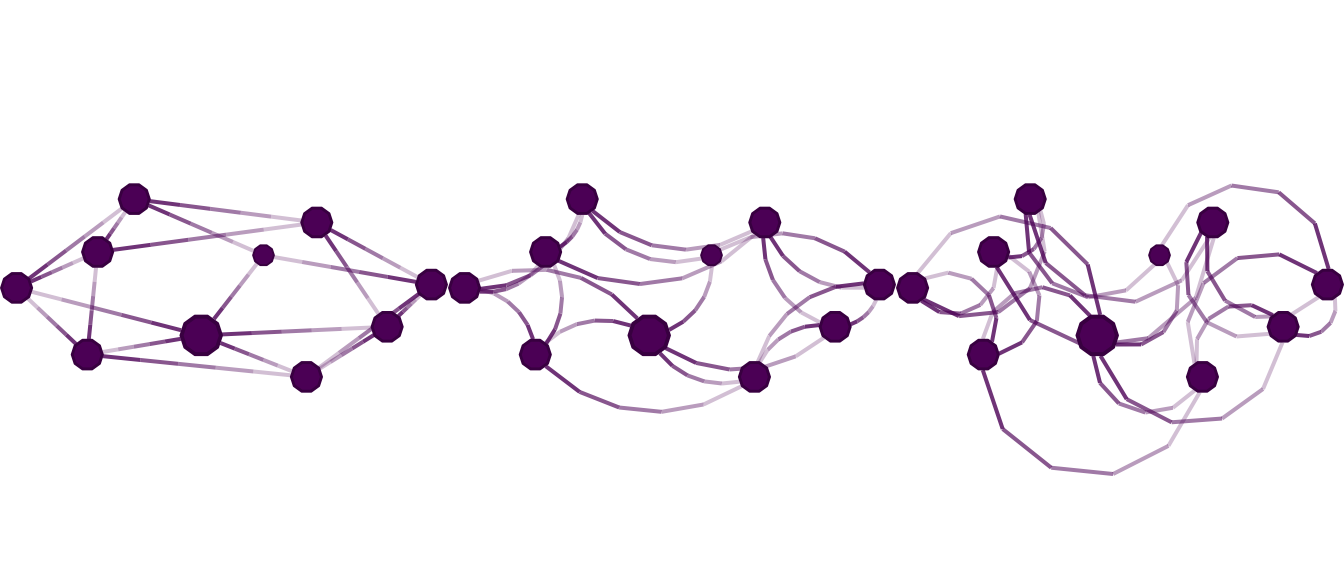
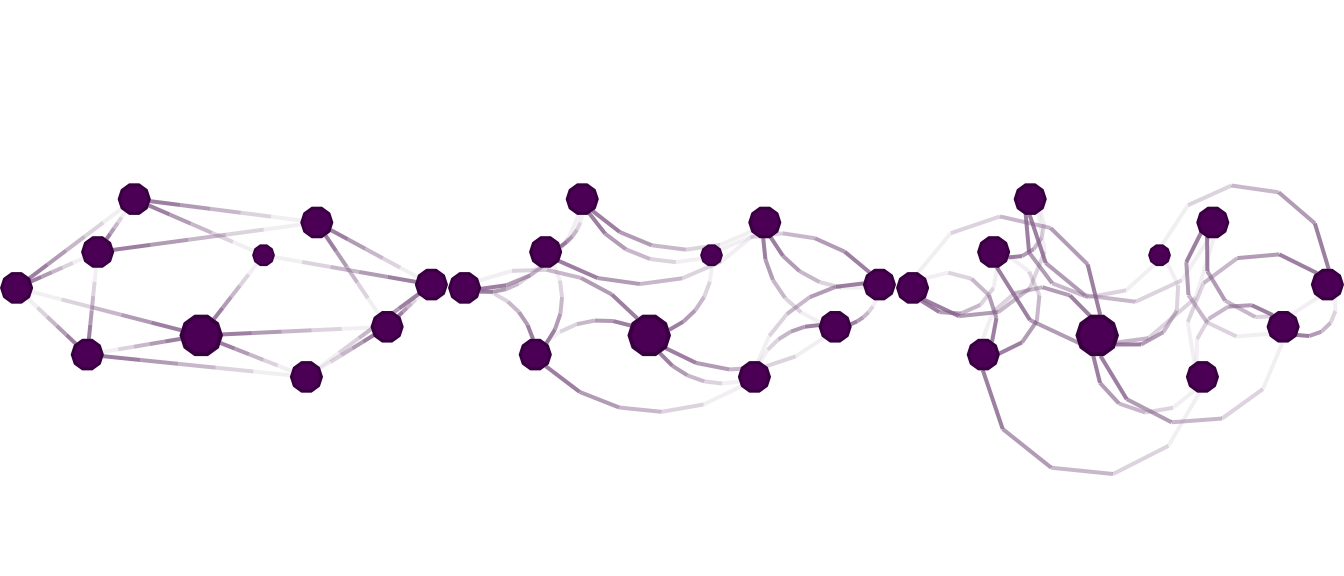
deploy: 177169a7eb518986f9895fdd7e93814c6c0d9a26

diff --git a/reference/nplot.html b/reference/nplot.html
@@ -184,7 +184,7 @@
   edge.width <span class='op'>=</span> <span class='fl'>1</span>,
   edge.width.range <span class='op'>=</span> <span class='fu'><a href='https://rdrr.io/r/base/c.html'>c</a></span><span class='op'>(</span><span class='fl'>1</span>, <span class='fl'>2</span><span class='op'>)</span>,
   edge.arrow.size <span class='op'>=</span> <span class='cn'>NULL</span>,
-  edge.color <span class='op'>=</span> <span class='op'>~</span><span class='fu'><a href='netplot-formulae.html'>ego</a></span><span class='op'>(</span>alpha <span class='op'>=</span> <span class='fl'>0.25</span><span class='op'>)</span> <span class='op'>+</span> <span class='va'>alter</span>,
+  edge.color <span class='op'>=</span> <span class='op'>~</span><span class='fu'><a href='netplot-formulae.html'>ego</a></span><span class='op'>(</span>alpha <span class='op'>=</span> <span class='fl'>0.25</span>, col <span class='op'>=</span> <span class='st'>"gray"</span><span class='op'>)</span> <span class='op'>+</span> <span class='va'>alter</span>,
   edge.curvature <span class='op'>=</span> <span class='va'>pi</span><span class='op'>/</span><span class='fl'>3</span>,
   edge.line.lty <span class='op'>=</span> <span class='st'>"solid"</span>,
   edge.line.breaks <span class='op'>=</span> <span class='fl'>5</span>,

diff --git a/articles/base-and-grid.html b/articles/base-and-grid.html
@@ -88,7 +88,7 @@
       <h1 data-toc-skip>Mixing netplot with base graphics</h1>
                         <h4 class="author">George G. Vega Yon</h4>
             
-            <h4 class="date">2023-04-06</h4>
+            <h4 class="date">2023-04-07</h4>
       
       <small class="dont-index">Source: <a href="https://github.com/USCCANA/netplot/blob/master/vignettes/base-and-grid.Rmd"><code>vignettes/base-and-grid.Rmd</code></a></small>
       <div class="hidden name"><code>base-and-grid.Rmd</code></div>

diff --git a/articles/examples.html b/articles/examples.html
@@ -88,7 +88,7 @@
       <h1 data-toc-skip>Graph drawing with netplot</h1>
                         <h4 class="author">George G. Vega Yon</h4>
             
-            <h4 class="date">2023-04-06</h4>
+            <h4 class="date">2023-04-07</h4>
       
       <small class="dont-index">Source: <a href="https://github.com/USCCANA/netplot/blob/master/vignettes/examples.Rmd"><code>vignettes/examples.Rmd</code></a></small>
       <div class="hidden name"><code>examples.Rmd</code></div>
